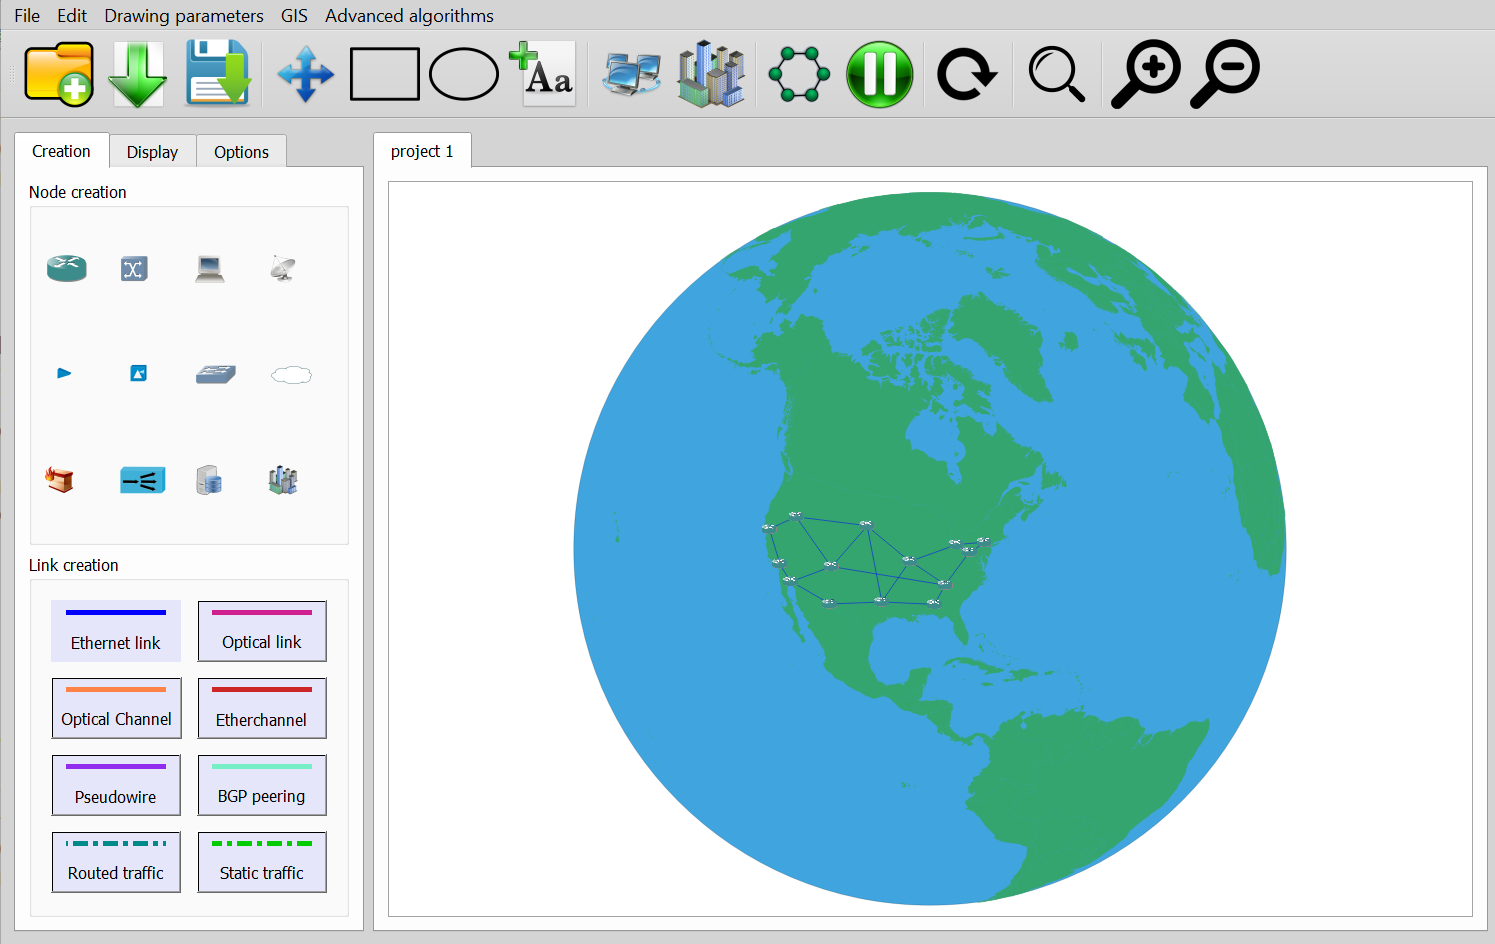
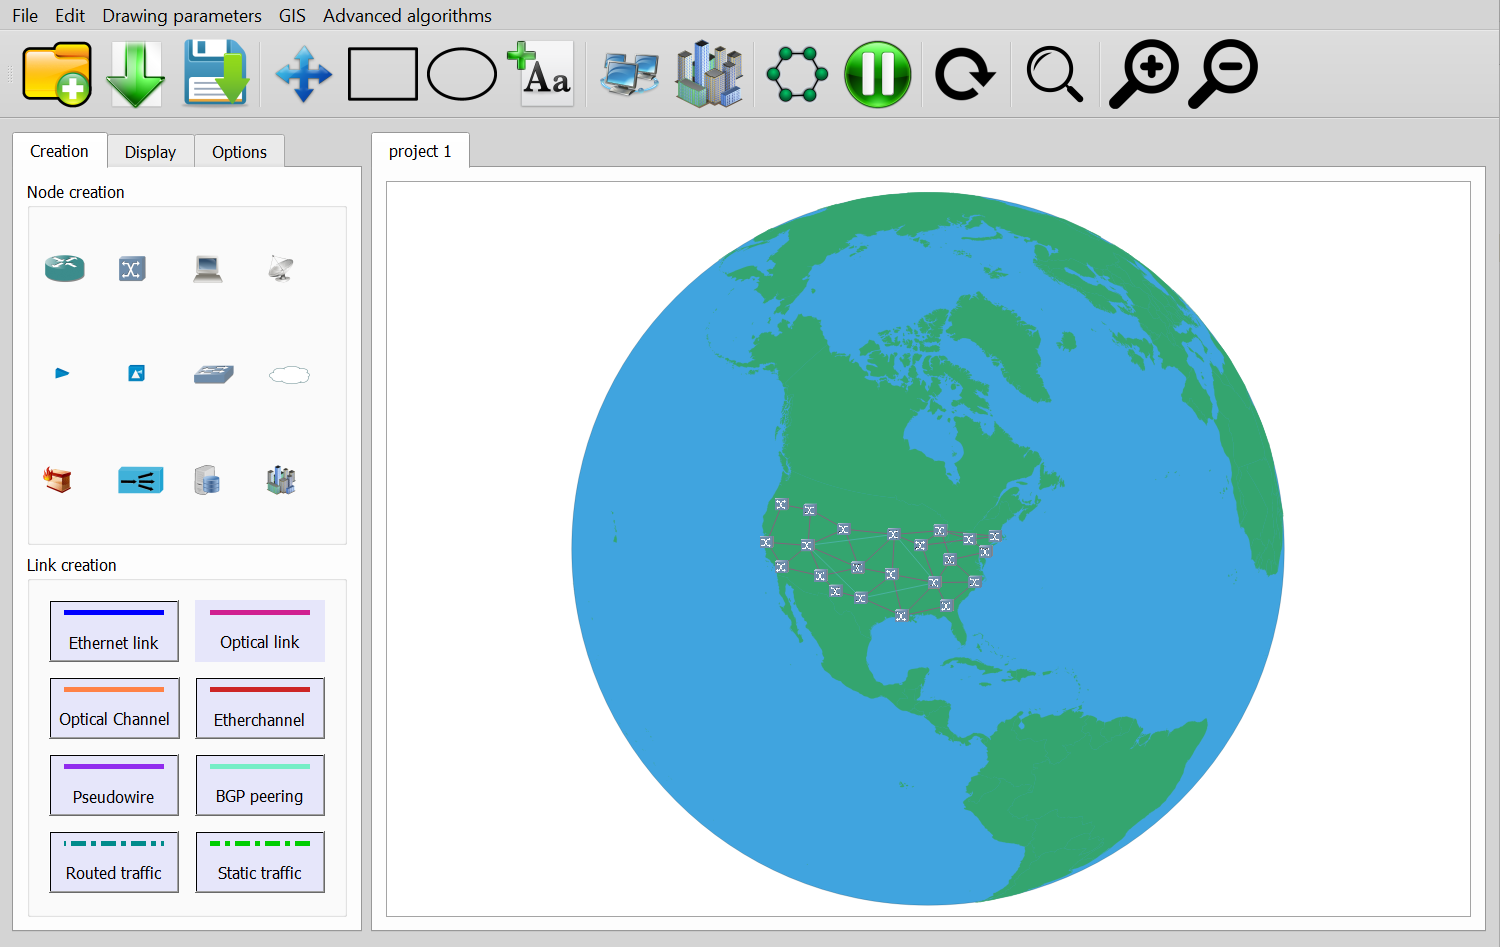
readme

diff --git a/pyNMS/views/geographical_view.py b/pyNMS/views/geographical_view.py
@@ -95,7 +95,7 @@ class GeographicalView(BaseView):
 class Map():
 
     projections = OrderedDict([
-    ('spherical', Proj('+proj=ortho +lat_0=47 +lon_0=28')),
+    ('spherical', Proj('+proj=ortho +lat_0=41 +lon_0=-87')),
     ('mercator', Proj(init='epsg:3395')),
     ('wgs84', Proj(init='epsg:3857')),
     ('3035', Proj("+init=EPSG:3035")),
@@ -105,7 +105,7 @@ class Map():
     def __init__(self, view):
         self.view = view
         self.proj = 'spherical'
-        self.ratio, self.offset = 1/300, (0, 0)
+        self.ratio, self.offset = 1/3000, (0, 0)
         self.shapefile = join(self.view.controller.path_shapefiles, 'World countries.shp')
         self.display = True
         
@@ -129,7 +129,7 @@ class Map():
     def draw_water(self):
         if self.proj == 'spherical':
             # draw the planet
-            cx, cy = self.to_canvas_coordinates(28, 47)
+            cx, cy = self.to_canvas_coordinates(-87, 41)
             R = 6371000*self.ratio
             earth_water = QtWidgets.QGraphicsEllipseItem(cx - R, cy - R, 2*R, 2*R)
             earth_water.setZValue(0)

diff --git a/README.md b/README.md
@@ -12,6 +12,7 @@ Contact us: contact@pynms.fr
 
 The following modules are used in pyNMS:
 ```
+pyQT (GUI framework)
 shapely, shapefile, pyproj (mandatory: used for shapefile import)
 xlrd, xlwt, yaml (desirable: used for saving projects)
 numpy, cvxopt (optional: used for linear programming)
@@ -53,10 +54,10 @@ Projects can be imported from / exported to an Excel or a YAML file. This allows
 
 ## AS Management
 
-Autonomous systems can be created to keep track of which devices runs which protocol (OSPF, IS-IS, BGP, etc).
+Autonomous systems can be created to keep track of which device runs which protocol (OSPF, IS-IS, BGP, etc).
 Autonomous systems can be divided into multiple areas.
 
-![AS Management](https://github.com/mintoo/networks/raw/master/Readme/domain_management.PNG)
+![AS Management](https://github.com/mintoo/networks/raw/master/Readme/AS_management.png)
 
 ## Automatic device configuration
 
